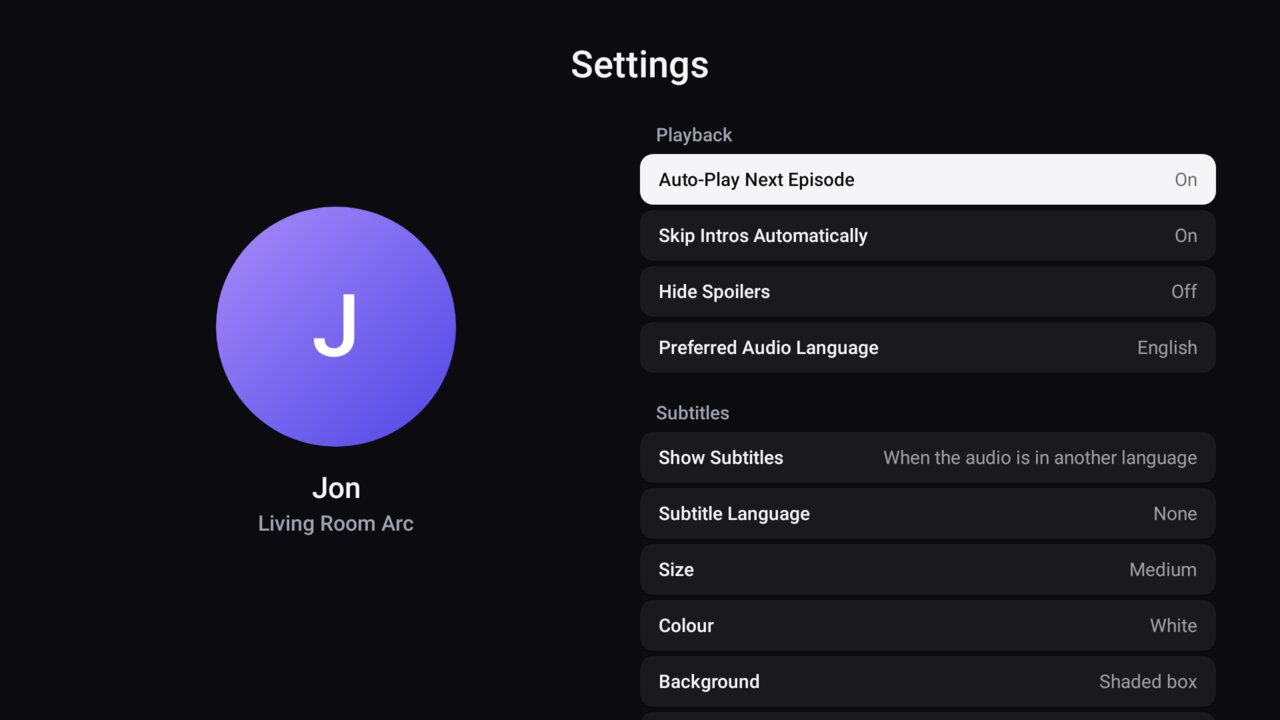
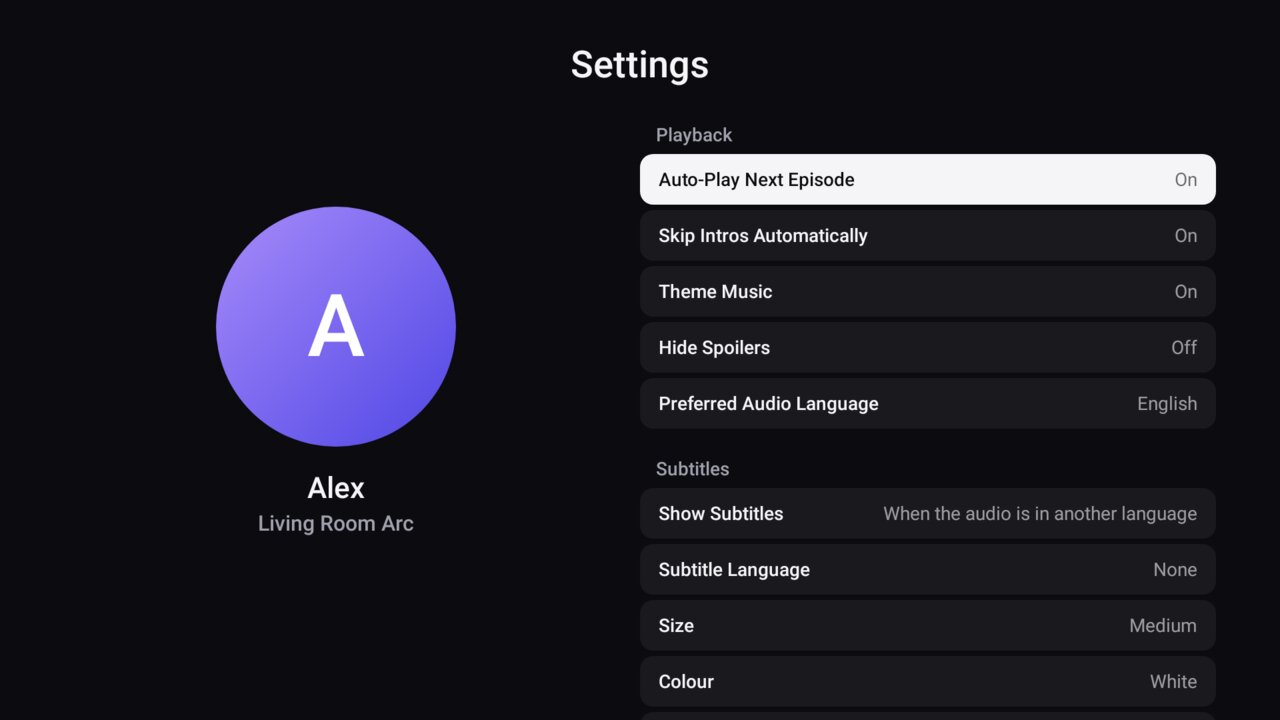
Theme music on film and show pages (#38)
* Live updates from Arc while the app is on screen

As the web's live-updates.ts (arc-media-server#344, docs/EVENTS-API.md):
the app keeps one /api/v1/events stream open while it's in the front,
gathers the change hints (first refresh after 1.5 s, then at most every
5 s) and reloads in place what they touch: Home and the sidebar, the
Watchlist or Playlists page, an open title page, and Hide Spoilers from
the profile's preferences. The player and the library grid are left
alone. The opening resync of a new stream is skipped, a resync on a
resumed stream reloads everything, the stream resumes with
Last-Event-ID, and refusals wait for Retry-After (else 5 s doubling to a
minute).

Logs a refused or dropped stream once at warning; reconnects and
refreshes at debug; never hints, ids or addresses.

Built here (assembleDebug and the test sources compile); the tests
couldn't run in this session. The server chat runs the full checks.

* Theme music on film and show pages

As the web's ThemeMusic and Plex: while a film's or show's page is open,
its theme tune (theme_url, GET /api/v1/items/{id}/theme) plays once,
fading in to a quarter volume, and fades out when the page is left or
anything opens over it; coming back from the player doesn't restart it.
It follows the profile's Theme Music (theme_music, on unless turned off),
now also a row in the TV's Settings. Preferences every screen follows go
through AppContainer.applyPrefs.

Logs a tune that didn't play at debug only.
[…]

diff --git a/app/src/main/java/org/arcmediaserver/android/ui/details/ThemeMusic.kt b/app/src/main/java/org/arcmediaserver/android/ui/details/ThemeMusic.kt
@@ -1,0 +1,109 @@
+package org.arcmediaserver.android.ui.details
+
+import androidx.compose.runtime.Composable
+import androidx.compose.runtime.getValue
+import androidx.compose.runtime.mutableStateOf
+import androidx.compose.runtime.remember
+import androidx.compose.runtime.saveable.rememberSaveable
+import androidx.compose.runtime.setValue
+import androidx.compose.ui.platform.LocalContext
+import androidx.lifecycle.compose.LifecycleResumeEffect
+import androidx.media3.common.MediaItem
+import androidx.media3.common.Player
+import androidx.media3.exoplayer.ExoPlayer
+import kotlinx.coroutines.CoroutineScope
+import kotlinx.coroutines.Dispatchers
+import kotlinx.coroutines.Job
+import kotlinx.coroutines.SupervisorJob
+import kotlinx.coroutines.cancel
+import kotlinx.coroutines.delay
+import kotlinx.coroutines.launch
+import org.arcmediaserver.android.AppContainer
+import org.arcmediaserver.android.data.ArcLog
+import org.arcmediaserver.android.data.Item
+
+/**
+ * Theme Music, as the web's (web/src/components/ThemeMusic.tsx) and Plex: a film's or show's theme
+ * tune plays quietly while its page is open, once, fading in, and fades out when the page is left
+ * or anything else plays. The profile's Theme Music (`theme_music`, on unless turned off) decides.
+ */
+object ThemeTune {
+    /** How loud the tune plays (the web's 0.25), and how it fades: this much every [STEP_MS]. */
+    const val VOLUME = 0.25f
+    const val FADE_STEP = 0.02f
+    const val STEP_MS = 60L
+
+    /** The tune to play on [item]'s page, or null: films and shows with one, while Theme Music is on. */
+    fun urlFor(item: Item?, themeMusic: Boolean): String? =
+        item?.takeIf { themeMusic && (it.isSeries || it.kind == "movie") }?.themeUrl?.takeIf { it.isNotBlank() }
+
+    /** The volume one fade step after [now], heading for [target]. */
+    fun step(now: Float, target: Float): Float =
+        if (kotlin.math.abs(target - now) <= FADE_STEP) target else if (target > now) now + FADE_STEP else now - FADE_STEP
+}
+
+/** One tune playing on an audio-only player signed in to Arc, with its fades. */
+private class TunePlayer(context: android.content.Context, container: AppContainer, url: String) {
+    private val scope = CoroutineScope(SupervisorJob() + Dispatchers.Main.immediate)
+    private var fade: Job? = null
+    private val player: ExoPlayer = org.arcmediaserver.android.ui.player.arcPlayer(context, container).apply {
+        volume = 0f
+        repeatMode = Player.REPEAT_MODE_OFF
+        setMediaItem(MediaItem.fromUri(container.api()?.absolute(url) ?: url))
+        addListener(object : Player.Listener {
+            override fun onPlayerError(error: androidx.media3.common.PlaybackException) {
+                // A tune that won't play is nothing to show: the page carries on in silence.
+                ArcLog.Android.debug("theme music didn't play: ${error.errorCodeName}")
+            }
+        })
+        prepare()
+        playWhenReady = true
+    }
+
+    init {
+        fadeTo(ThemeTune.VOLUME)
+    }
+
+    private fun fadeTo(target: Float, done: () -> Unit = {}) {
+        fade?.cancel()
+        fade = scope.launch {
+            while (player.volume != target) {
+                delay(ThemeTune.STEP_MS)
+                player.volume = ThemeTune.step(player.volume, target)
+            }
+            done()
+        }
+    }
+
+    /** Fades out, then lets the player go. */
+    fun stop() {
+        fadeTo(0f) {
+            player.release()
+            scope.cancel() // ends this fade too: nothing follows it
+        }
+    }
+
+}
+
+/**
+ * Plays [url] (a title's theme tune, or null for none) while this page is on screen: once per
+ * visit, so coming back from the player doesn't start it again; leaving the page (or opening the
+ * player, a trailer or another page over it) fades it out.
+ */
+@Composable
+fun ThemeMusicEffect(key: String, url: String?) {
+    val context = LocalContext.current
+    val container = remember { (context.applicationContext as? org.arcmediaserver.android.ArcApplication)?.container }
+    var played by rememberSaveable(key) { mutableStateOf(false) }
+    var tune by remember { mutableStateOf<TunePlayer?>(null) }
+    LifecycleResumeEffect(key, url) {
+        if (url != null && !played && container != null) {
+            played = true
+            tune = TunePlayer(context, container, url)
+        }
+        onPauseOrDispose {
+            tune?.stop()
+            tune = null
+        }
+    }
+}

diff --git a/app/src/test/java/org/arcmediaserver/android/ui/details/ThemeTuneTest.kt b/app/src/test/java/org/arcmediaserver/android/ui/details/ThemeTuneTest.kt
@@ -1,0 +1,46 @@
+package org.arcmediaserver.android.ui.details
+
+import org.arcmediaserver.android.data.ArcJson
+import org.arcmediaserver.android.data.Item
+import org.arcmediaserver.android.data.Prefs
+import org.junit.Assert.assertEquals
+import org.junit.Assert.assertNull
+import org.junit.Assert.assertTrue
+import org.junit.Test
+
+class ThemeTuneTest {
+    private val film = Item(id = "m", kind = "movie", title = "M", themeUrl = "/api/items/m/theme")
+    private val show = Item(id = "s", kind = "series", title = "S", themeUrl = "/api/items/s/theme")
+
+    @Test
+    fun `films and shows with a tune play it while Theme Music is on`() {
+        assertEquals("/api/items/m/theme", ThemeTune.urlFor(film, themeMusic = true))
+        assertEquals("/api/items/s/theme", ThemeTune.urlFor(show, themeMusic = true))
+        assertNull(ThemeTune.urlFor(film, themeMusic = false))
+        assertNull(ThemeTune.urlFor(film.copy(themeUrl = null), themeMusic = true))
+        assertNull(ThemeTune.urlFor(film.copy(themeUrl = ""), themeMusic = true))
+        // An episode's page doesn't (as the web: films and shows only).
+        assertNull(ThemeTune.urlFor(Item(id = "e", kind = "episode", title = "E", themeUrl = "/api/items/s/theme"), themeMusic = true))
+        assertNull(ThemeTune.urlFor(null, themeMusic = true))
+    }
+
+    @Test
+    fun `the fade moves a little each step and lands on its target`() {
+        assertEquals(0.02f, ThemeTune.step(0f, ThemeTune.VOLUME), 0.0001f)
+        assertEquals(ThemeTune.VOLUME, ThemeTune.step(0.24f, ThemeTune.VOLUME), 0.0001f)
+        assertEquals(0.23f, ThemeTune.step(0.25f, 0f), 0.0001f)
+        assertEquals(0f, ThemeTune.step(0.01f, 0f), 0.0001f)
+        // From silence to the tune's volume takes about three-quarters of a second.
+        var v = 0f
+        var steps = 0
+        while (v != ThemeTune.VOLUME && steps < 100) { v = ThemeTune.step(v, ThemeTune.VOLUME); steps++ }
+        assertTrue(steps in 12..14)
+    }
+
+    @Test
+    fun `Theme Music is on unless the profile turned it off, and a title brings its tune`() {
+        assertEquals(true, ArcJson.decodeFromString(Prefs.serializer(), """{"home":[]}""").themeMusic)
+        assertEquals(false, ArcJson.decodeFromString(Prefs.serializer(), """{"theme_music":false}""").themeMusic)
+        assertEquals("/api/items/m/theme", ArcJson.decodeFromString(Item.serializer(), """{"id":"m","kind":"movie","title":"M","theme_url":"/api/items/m/theme"}""").themeUrl)
+    }
+}

diff --git a/app/src/main/java/org/arcmediaserver/android/ui/settings/SettingsScreen.kt b/app/src/main/java/org/arcmediaserver/android/ui/settings/SettingsScreen.kt
@@ -114,7 +114,7 @@ class SettingsViewModel(private val container: AppContainer) : ViewModel() {
         _state.update { it.copy(prefs = LoadState.Loading) }
         viewModelScope.launch {
             val result = try {
-                LoadState.Ready(api.prefs().also { container.hideSpoilers.value = it.hideSpoilers })
+                LoadState.Ready(api.prefs().also { container.applyPrefs(it) })
             } catch (e: Exception) {
                 if (e is kotlinx.coroutines.CancellationException) throw e
                 ArcLog.Android.warn("settings failed to load: ${e.javaClass.simpleName}")
@@ -128,7 +128,7 @@ class SettingsViewModel(private val container: AppContainer) : ViewModel() {
     fun change(before: Prefs, after: Prefs, changes: JsonObject) {
         val api = container.api() ?: return
         _state.update { it.copy(prefs = LoadState.Ready(after), failed = false) }
-        container.hideSpoilers.value = after.hideSpoilers
+        container.applyPrefs(after)
         viewModelScope.launch {
             try {
                 api.updatePrefs(changes)
@@ -137,7 +137,7 @@ class SettingsViewModel(private val container: AppContainer) : ViewModel() {
                 if (e is kotlinx.coroutines.CancellationException) throw e
                 ArcLog.Android.warn("settings: saving ${changes.keys.joinToString()} failed: ${e.javaClass.simpleName}")
                 _state.update { it.copy(prefs = LoadState.Ready(before), failed = true) }
-                container.hideSpoilers.value = before.hideSpoilers
+                container.applyPrefs(before)
             }
         }
     }
@@ -250,6 +250,11 @@ fun SettingsContent(
                 item {
                     SettingsRow(stringResource(R.string.settings_auto_skip), if (p.autoSkip) on else off) {
                         onChange(p, p.copy(autoSkip = !p.autoSkip), buildJsonObject { put("auto_skip", !p.autoSkip) })
+                    }
+                }
+                item {
+                    SettingsRow(stringResource(R.string.settings_theme_music), if (p.themeMusic) on else off) {
+                        onChange(p, p.copy(themeMusic = !p.themeMusic), buildJsonObject { put("theme_music", !p.themeMusic) })
                     }
                 }
                 item {

diff --git a/app/src/main/java/org/arcmediaserver/android/AppContainer.kt b/app/src/main/java/org/arcmediaserver/android/AppContainer.kt
@@ -84,11 +84,12 @@ class AppContainer(private val context: Context) {
 
     /** Live updates from Arc while the app is on screen (MainActivity starts and stops them). */
     val live = org.arcmediaserver.android.data.LiveUpdates(::api, mediaClient, appScope).also { live ->
-        // The profile's preferences changed elsewhere (the web, another TV): follow Hide Spoilers.
+        // The profile's preferences changed elsewhere (the web, another TV): follow Hide Spoilers
+        // and Theme Music.
         appScope.launch {
             live.changes.collect { topics ->
                 if (!org.arcmediaserver.android.data.LiveTopics.touches(topics, org.arcmediaserver.android.data.LiveTopics.prefs)) return@collect
-                runCatching { api()?.prefs() }.getOrNull()?.let { hideSpoilers.value = it.hideSpoilers }
+                runCatching { api()?.prefs() }.getOrNull()?.let { applyPrefs(it) }
             }
         }
     }
@@ -96,10 +97,20 @@ class AppContainer(private val context: Context) {
     /** The profile's Hide Spoilers, as last read from (or saved to) its preferences. */
     val hideSpoilers = kotlinx.coroutines.flow.MutableStateFlow(false)
 
+    /** The profile's Theme Music, as last read from (or saved to) its preferences. */
+    val themeMusic = kotlinx.coroutines.flow.MutableStateFlow(true)
+
+    /** Takes up the profile's preferences that every screen follows. */
+    fun applyPrefs(prefs: org.arcmediaserver.android.data.Prefs) {
+        hideSpoilers.value = prefs.hideSpoilers
+        themeMusic.value = prefs.themeMusic
+    }
+
     /** A different profile (or none): what was kept for the last one doesn't carry over. */
     fun profileChanged() {
         live.reset()
         hideSpoilers.value = false
+        themeMusic.value = true
         palettes.clear()
         itemChanges.clear()
         offContinue.clear()

diff --git a/app/src/main/java/org/arcmediaserver/android/data/Models.kt b/app/src/main/java/org/arcmediaserver/android/data/Models.kt
@@ -123,6 +123,8 @@ data class Item(
     val title: String,
     val year: Int? = null,
     val overview: String? = null,
+    /** The title's theme tune (GET /items/{id}/theme), when it has one. */
+    @SerialName("theme_url") val themeUrl: String? = null,
     val tagline: String? = null,
     @SerialName("runtime_min") val runtimeMin: Int? = null,
     @SerialName("content_rating") val contentRating: String? = null,
@@ -257,6 +259,8 @@ data class Prefs(
     /** Skip each intro and recap by itself, as the web player does. */
     @SerialName("auto_skip") val autoSkip: Boolean = false,
     @SerialName("hide_spoilers") val hideSpoilers: Boolean = false,
+    /** Theme Music: a title's theme tune plays quietly on its page; absent means on, as the web reads it. */
+    @SerialName("theme_music") val themeMusic: Boolean = true,
     @SerialName("subtitle_style") val subtitleStyle: SubtitleStyle = SubtitleStyle(),
 )
 

diff --git a/app/src/main/java/org/arcmediaserver/android/ui/details/DetailsScreen.kt b/app/src/main/java/org/arcmediaserver/android/ui/details/DetailsScreen.kt
@@ -107,6 +107,9 @@ fun DetailsRoute(
     val serverName = remember { (context.applicationContext as? org.arcmediaserver.android.ArcApplication)?.container?.session?.serverName }
     val state by vm.state.collectAsStateWithLifecycle()
     val canShuffle by vm.canShuffle.collectAsStateWithLifecycle()
+    // Theme Music: the film's or show's tune, quietly, once per visit (the profile can turn it off).
+    val themeOn by remember { (context.applicationContext as? org.arcmediaserver.android.ArcApplication)?.container?.themeMusic ?: kotlinx.coroutines.flow.MutableStateFlow(false) }.collectAsStateWithLifecycle()
+    ThemeMusicEffect(itemId, ThemeTune.urlFor((state as? org.arcmediaserver.android.ui.components.LoadState.Ready)?.value?.item, themeOn))
     var resumed by remember { mutableStateOf(false) }
     // Coming back from the player: show the new resume point and watched state.
     LifecycleResumeEffect(Unit) {

diff --git a/app/src/test/java/org/arcmediaserver/android/screenshots/ScreenshotTest.kt b/app/src/test/java/org/arcmediaserver/android/screenshots/ScreenshotTest.kt
@@ -182,7 +182,7 @@ class ScreenshotTest {
             org.arcmediaserver.android.ui.settings.SettingsUiState(
                 prefs = LoadState.Ready(org.arcmediaserver.android.data.Prefs(audioLanguage = "eng", subtitleMode = "foreign", autoSkip = true)),
                 serverName = "Living Room Arc",
-                profile = org.arcmediaserver.android.data.Profile("p1", "Jon", "violet"),
+                profile = org.arcmediaserver.android.data.Profile("p1", "Alex", "violet"),
             ),
             onChange = { _, _, _ -> }, onRetry = {}, onSwitchServer = {}, onSignOut = {},
         )

diff --git a/app/src/main/java/org/arcmediaserver/android/ui/browse/BrowseViewModel.kt b/app/src/main/java/org/arcmediaserver/android/ui/browse/BrowseViewModel.kt
@@ -228,7 +228,7 @@ class BrowseViewModel(private val container: AppContainer) : ViewModel() {
                     val status = async { api.authStatus() }
                     Triple(libs.await(), prefs.await(), status.await())
                 }
-                container.hideSpoilers.value = prefs.hideSpoilers
+                container.applyPrefs(prefs)
                 val order = prefs.libraryOrder
                 val sorted = libraries.sortedBy { lib -> order.indexOf(lib.id).let { if (it < 0) Int.MAX_VALUE else it } }
                 _state.update {

diff --git a/app/src/main/java/org/arcmediaserver/android/ui/player/PlayerViewModel.kt b/app/src/main/java/org/arcmediaserver/android/ui/player/PlayerViewModel.kt
@@ -241,7 +241,7 @@ class PlayerViewModel(
         })
         val loadedPrefs = viewModelScope.async {
             runCatching { api.prefs() }.onFailure { log.warn("preferences failed to load: ${it.javaClass.simpleName}") }.getOrNull()
-                ?.also { container.hideSpoilers.value = it.hideSpoilers } ?: Prefs()
+                ?.also { container.applyPrefs(it) } ?: Prefs()
         }
         viewModelScope.launch {
             // The title, and the episode after it unless the profile turned Auto-Play off (as the

diff --git a/docs/changes/2026-11-17-theme-music.md b/docs/changes/2026-11-17-theme-music.md
@@ -1,0 +1,47 @@
+# Theme music on title pages
+
+The web plays a film's or show's theme tune quietly while its page is open, as Plex does, when the
+profile's Theme Music is on (`theme_music` in `/me/prefs`, on unless turned off). The TV didn't.
+It now does, the same way (`web/src/components/ThemeMusic.tsx`).
+
+## What changed
+
+- **On a film's or show's page with a tune** (`theme_url` on the title, served by
+  `GET /api/v1/items/{id}/theme`):
+  - the tune plays once, fading in to a quarter of the volume (the web's 0.25) over about three
+    quarters of a second;
+  - it fades out when the page is left, or when anything opens over it (the player, a trailer,
+    another page).
+- **Once per visit:** coming back from the player doesn't start it again; opening the title anew
+  does.
+- **Episode pages** don't play it, as on the web.
+- **A tune that won't play** is skipped silently; the page carries on.
+- **Settings:** a **Theme Music** row under Playback, saved with `PATCH /me/prefs`, so the web and
+  other apps follow it.
+- **Code:**
+  - the profile's preferences that every screen follows now go through
+    `AppContainer.applyPrefs` (Hide Spoilers and Theme Music);
+  - `ThemeTune` (`ui/details/ThemeMusic.kt`) has the rules and the fade;
+  - the tune plays on an audio-only player made like the main one (`arcPlayer`, signed in to Arc).
+
+## Checks
+
+- Here: `./gradlew assembleDebug compileDebugUnitTestKotlin` passed. The tests couldn't run in this
+  session (a Robolectric jar comes from a mirror its network refuses).
+- Full check, run where Maven works, after merging live updates (#37) in:
+  `./gradlew assembleDebug testDebugUnitTest recordRoborazziDebug` passed (209 tests, 1 skipped
+  (the live-server test), 0 failed). The live profile collector now goes through `applyPrefs`,
+  so a change on the web reaches Theme Music too.
+- New `ThemeTuneTest`:
+  - which pages play a tune and when Theme Music stops it;
+  - the fade's steps;
+  - `theme_music` absent reads as on, and `theme_url` is read.
+- The screenshot `tv-settings` gains the Theme Music row (looked at). Its profile is now "Alex",
+  as the other screenshots, and the README's `docs/screenshots/settings.jpg` is re-rendered.
+- **Needs a real TV (or an emulator with sound):** hearing it, its volume against the TV's, and
+  the fades. Not tried on one.
+
+## Logging
+
+- Debug only: a tune that didn't play, with Media3's error code name, never the address.
+- Saving the setting uses Settings' existing log lines.
